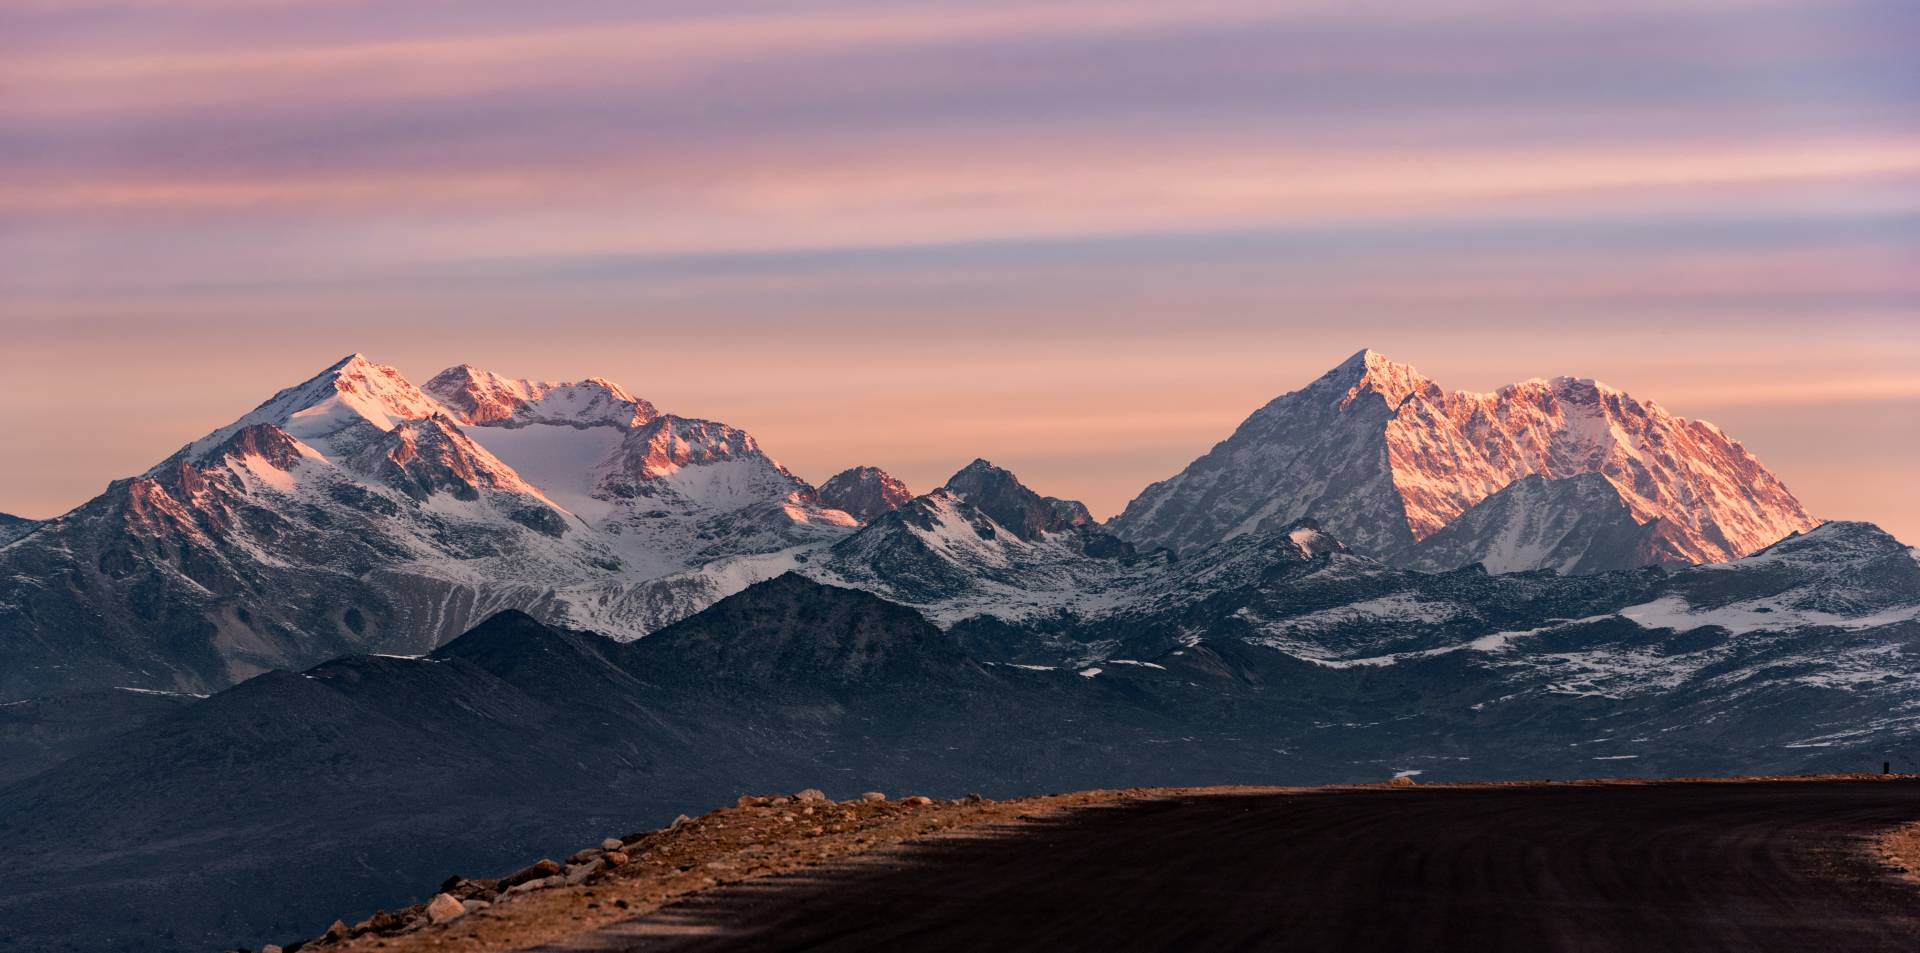
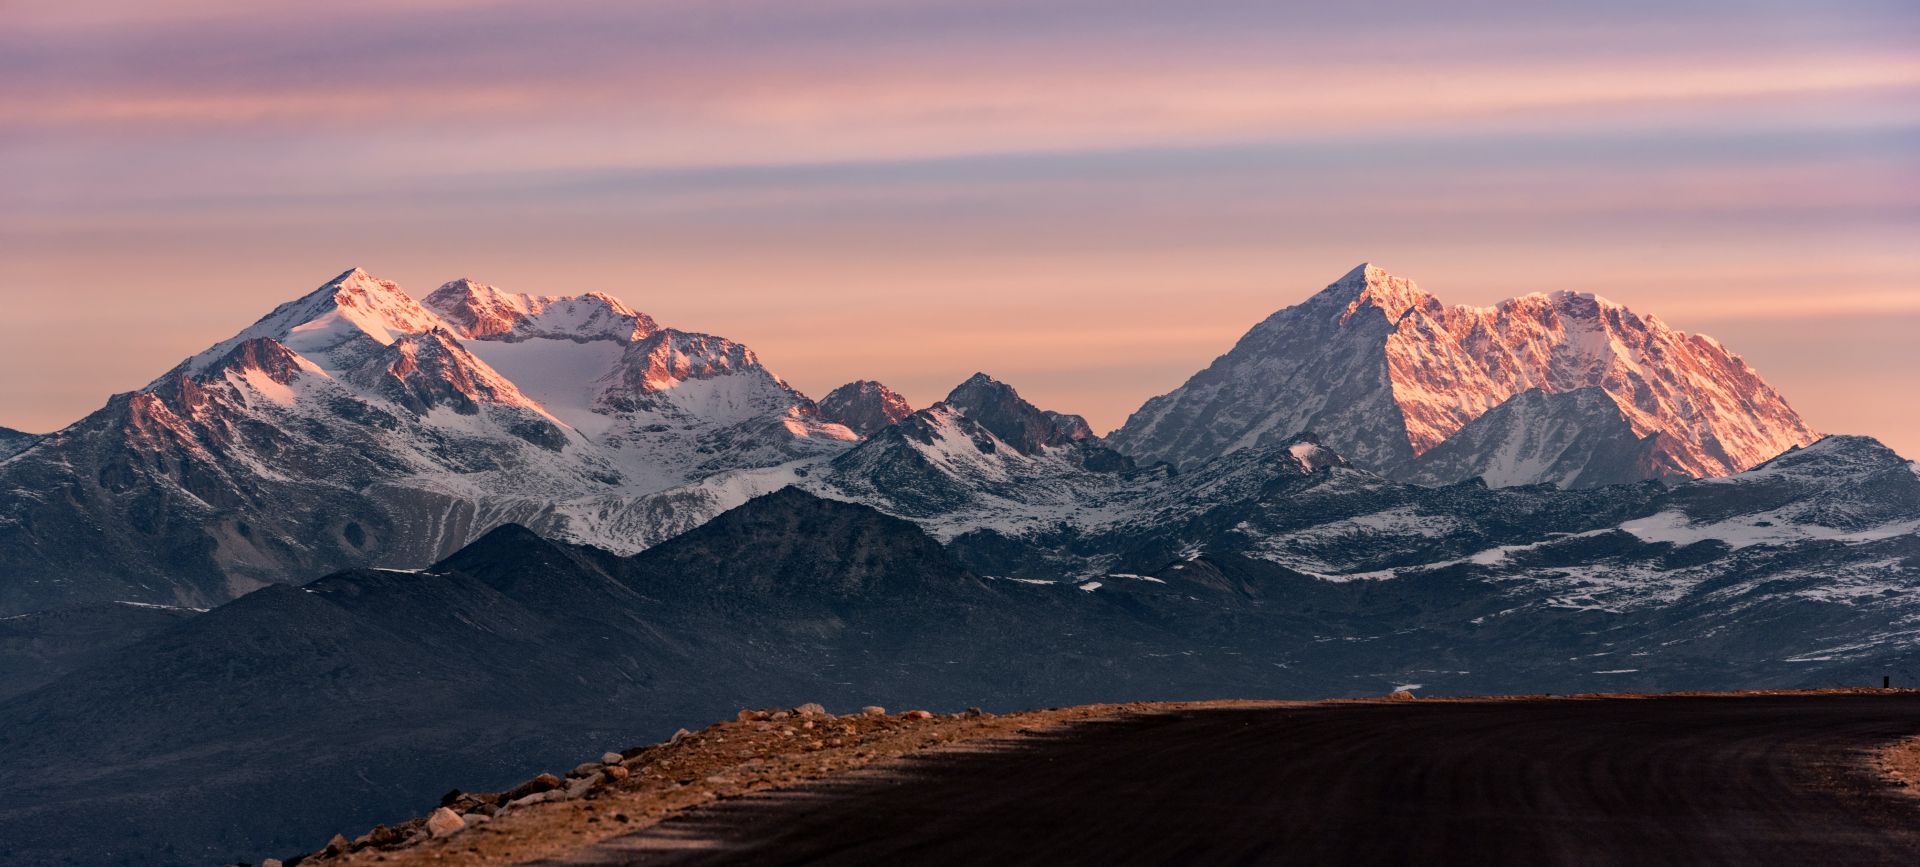
15:23

diff --git a/assets/css/style.css b/assets/css/style.css
@@ -680,7 +680,7 @@ box-shadow: 0 0 0 3px #cde1f8;
 # Hero Section
 --------------------------------------------------------------*/
 .hero {
-  height: 59vh; /*70vh 100vh*/
+  height: 55vh; /*70vh 100vh*/
   position: relative;
   color: #fff;
 }